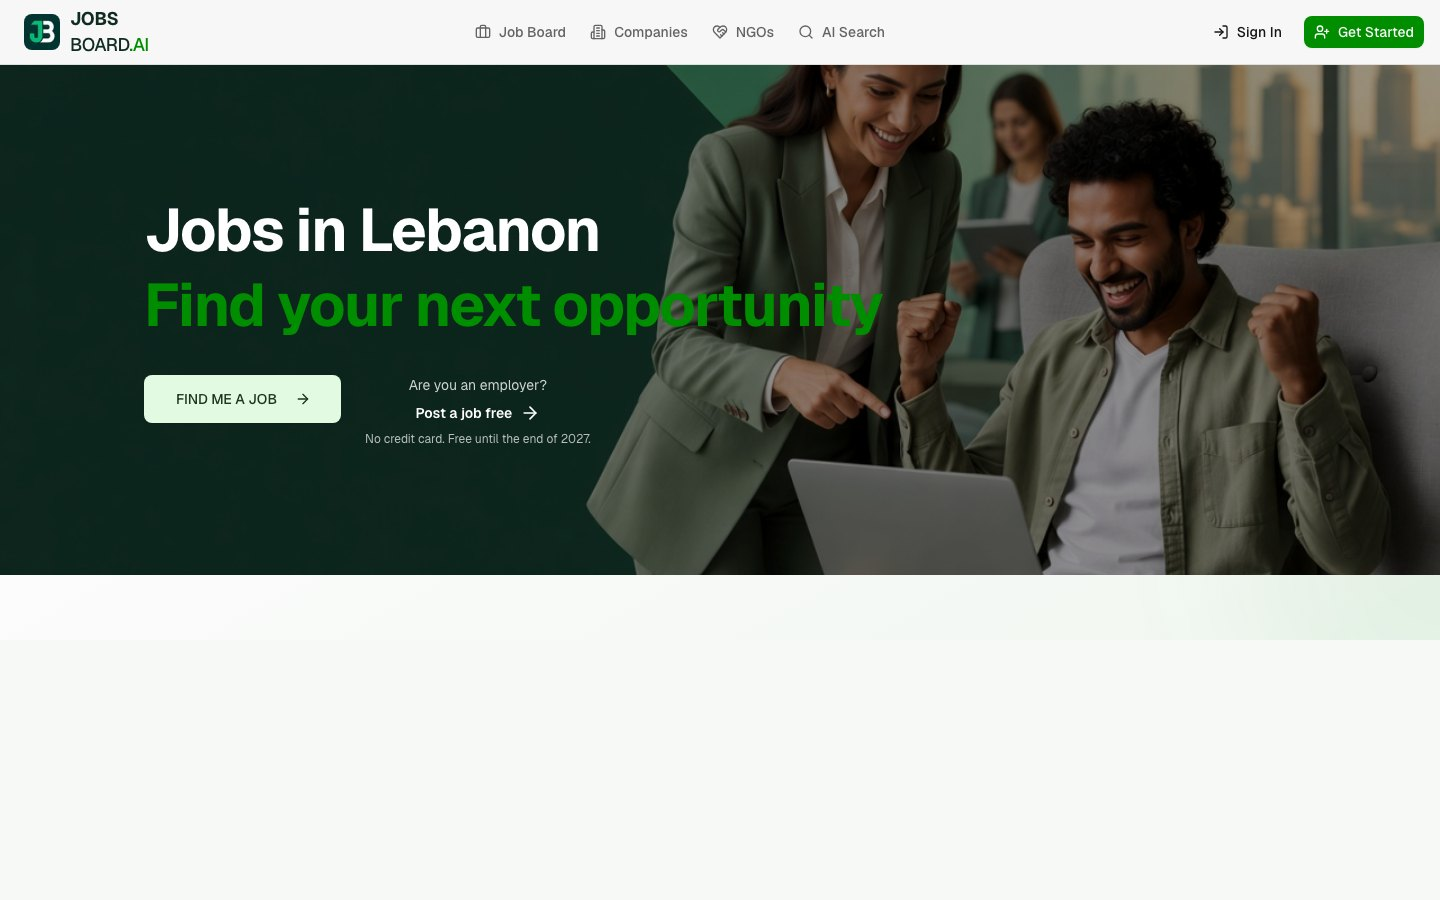
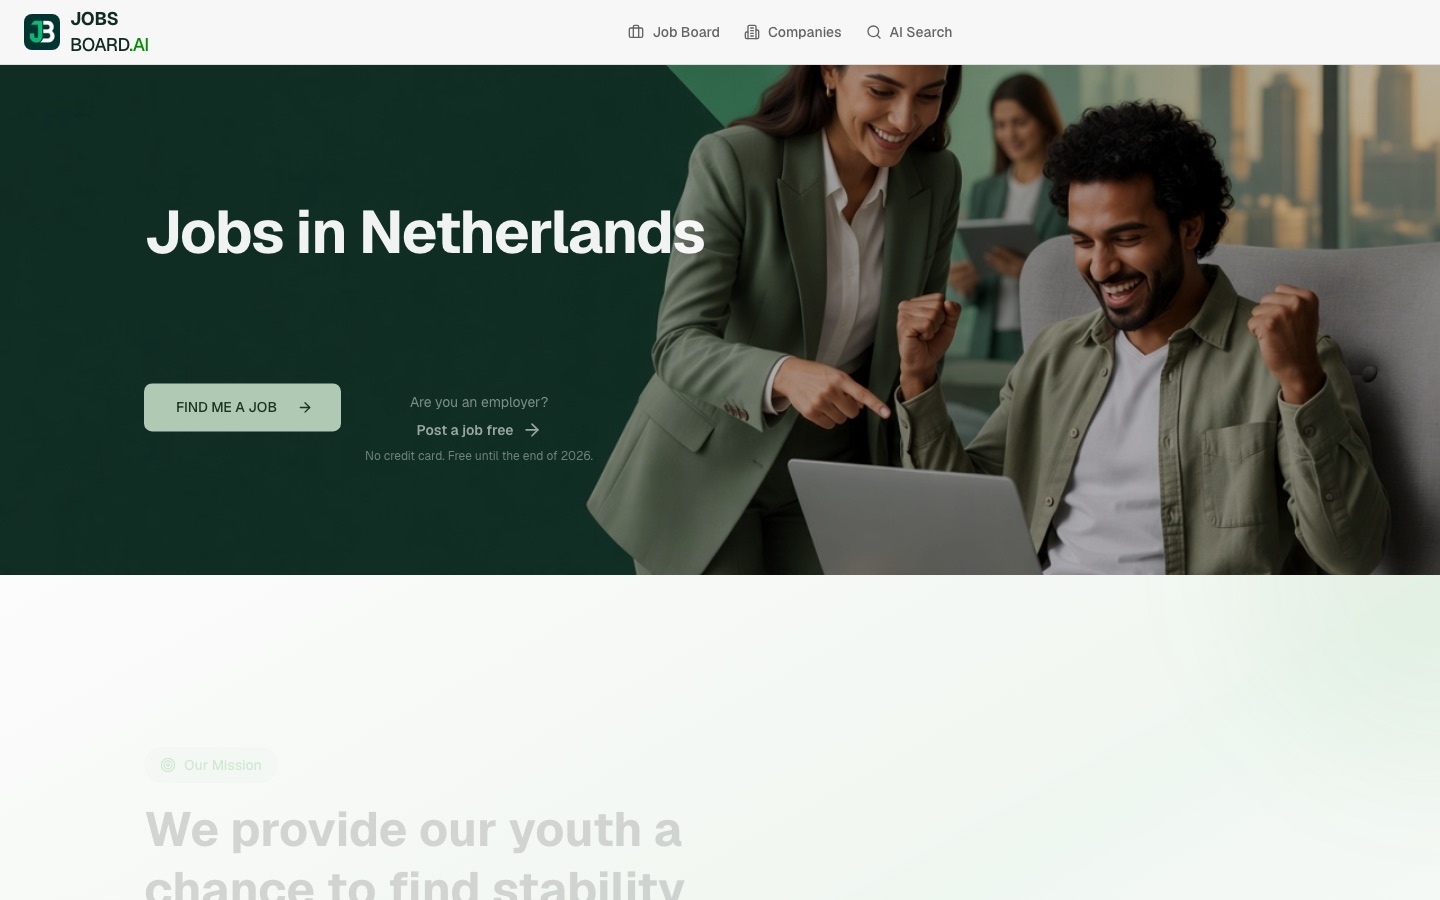
Remove Imageni and show the Netherlands JobsBoard homepage.

diff --git a/src/app/page.tsx b/src/app/page.tsx
@@ -72,7 +72,7 @@ export default function Home() {
           <div className="relative aspect-[16/10] overflow-hidden border border-[#ddd6cc] bg-[#ddd6cc]">
             <Image
               src="/images/jobsboard.jpg"
-              alt="JobsBoard.ai homepage"
+              alt="JobsBoard.ai Netherlands homepage"
               fill
               className="object-cover object-top"
             />
@@ -88,42 +88,17 @@ export default function Home() {
               list jobs that belong on their page.
             </p>
             <Link
-              href="https://jobsboard.ai"
+              href="https://jobsboard.ai/nl"
               target="_blank"
               rel="noreferrer"
               className="mt-6 inline-block border-b border-[#161513] pb-1 text-sm font-medium"
             >
-              jobsboard.ai
+              jobsboard.ai/nl
             </Link>
           </div>
         </article>
 
         <div className="mt-16 grid gap-8 md:grid-cols-2">
-          <article>
-            <div className="relative aspect-[16/10] overflow-hidden border border-[#ddd6cc] bg-[#ddd6cc]">
-              <Image
-                src="/images/product.jpg"
-                alt="Working on a laptop"
-                fill
-                className="object-cover"
-              />
-            </div>
-            <h3 className="mt-5 text-xl">
-              Imageni AI
-            </h3>
-            <p className="mt-2 text-[#5f5a54]">
-              An AI studio for generating images — prompt to image, a personal
-              library, and custom models. Live at imageniai.com.
-            </p>
-            <Link
-              href="https://imageniai.com"
-              target="_blank"
-              rel="noreferrer"
-              className="mt-4 inline-block border-b border-[#161513] pb-1 text-sm"
-            >
-              imageniai.com
-            </Link>
-          </article>
           <article>
             <div className="relative aspect-[16/10] overflow-hidden bg-[#ddd6cc]">
               <Image

diff --git a/src/app/about-us/page.tsx b/src/app/about-us/page.tsx
@@ -65,7 +65,7 @@ export default function About() {
               <div className="relative aspect-[16/10] overflow-hidden border border-[#ddd6cc] bg-[#ddd6cc]">
                 <Image
                   src="/images/jobsboard.jpg"
-                  alt="JobsBoard.ai homepage"
+                  alt="JobsBoard.ai Netherlands homepage"
                   fill
                   className="object-cover object-top"
                 />
@@ -76,34 +76,12 @@ export default function About() {
                 Organisations keep hiring on their own page.
               </p>
               <Link
-                href="https://jobsboard.ai"
+                href="https://jobsboard.ai/nl"
                 target="_blank"
                 rel="noreferrer"
                 className="mt-4 inline-block border-b border-[#161513] pb-1 text-sm"
               >
                 Open JobsBoard.ai
-              </Link>
-            </article>
-            <article>
-              <div className="relative aspect-[16/10] overflow-hidden border border-[#ddd6cc] bg-[#ddd6cc]">
-                <Image
-                  src="/images/product.jpg"
-                  alt="Working on a laptop"
-                  fill
-                  className="object-cover"
-                />
-              </div>
-              <h3 className="mt-5 text-xl">Imageni AI</h3>
-              <p className="mt-2 text-[#5f5a54]">
-                An AI studio for generating images, with a personal library of everything you create.
-              </p>
-              <Link
-                href="https://imageniai.com"
-                target="_blank"
-                rel="noreferrer"
-                className="mt-4 inline-block border-b border-[#161513] pb-1 text-sm"
-              >
-                Open Imageni AI
               </Link>
             </article>
           </div>

diff --git a/src/components/Footer.tsx b/src/components/Footer.tsx
@@ -5,7 +5,6 @@ const columns = [
     title: "Products",
     links: [
       { href: "https://jobsboard.ai", label: "JobsBoard.ai", external: true },
-      { href: "https://imageniai.com", label: "Imageni AI", external: true },
     ],
   },
   {
